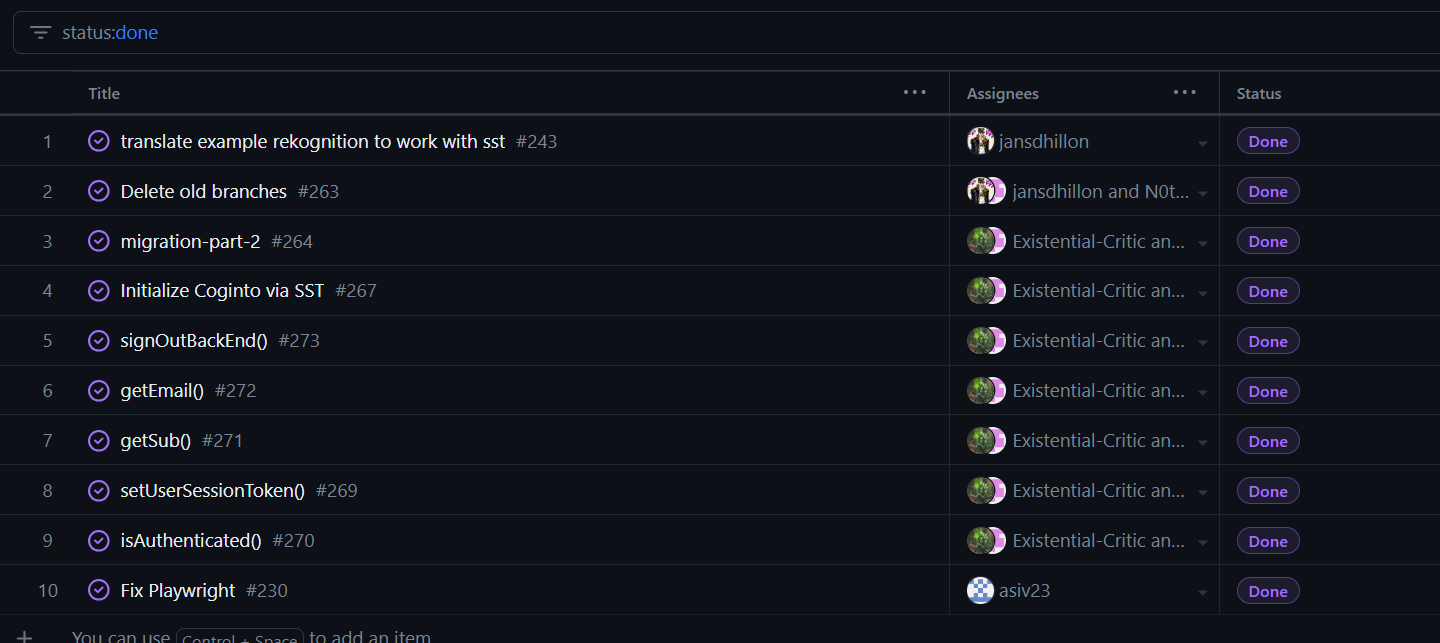
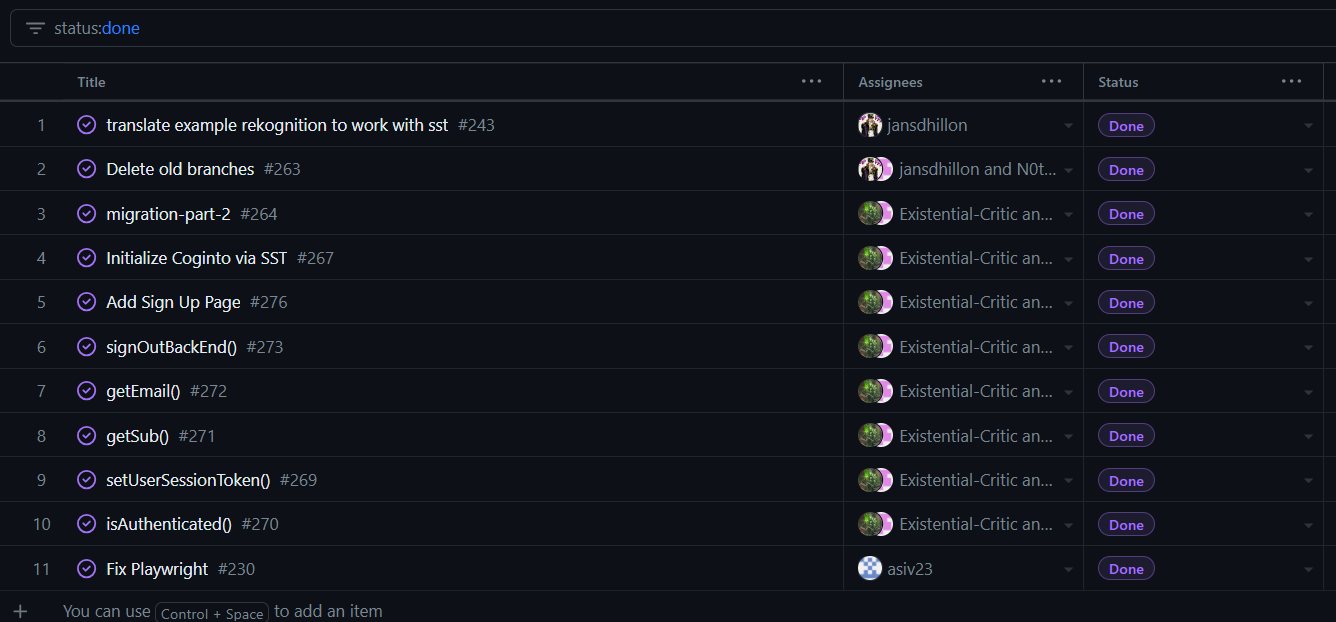
update tasks

diff --git a/docs/weekly logs/team9-weekly-log.md b/docs/weekly logs/team9-weekly-log.md
@@ -1092,6 +1092,13 @@ The tasks identified for this week were:
 * **Associated Milestone Goal:** Milestone Goal 1: Back-End Coding
 * **Description:** Complete function to retrieve submissions
 
+### Task 8: Add Signup Page
+
+* **Status:** Complete
+* **Assignee(s):** Muhammad Bakar and Soren Stenback
+* **Associated Milestone Goal:** Milestone Goal 1: Back-End Coding
+* **Description:** Add Signup Page
+
 ### Task 8: Set up Authentication
 
 * **Status:** In-Progress
@@ -1115,7 +1122,7 @@ The tasks identified for this week were:
 
 ### Task 9: Create API Route 
 
-* **Status:** In-Progress
+* **Status:** Complete
 * **Assignee(s):** Jan-Yaeger Dhillon
 * **Associated Milestone Goal:** Milestone Goal 1: Back-End Coding
 * **Description:** Create API route to communicated with Next.js 
